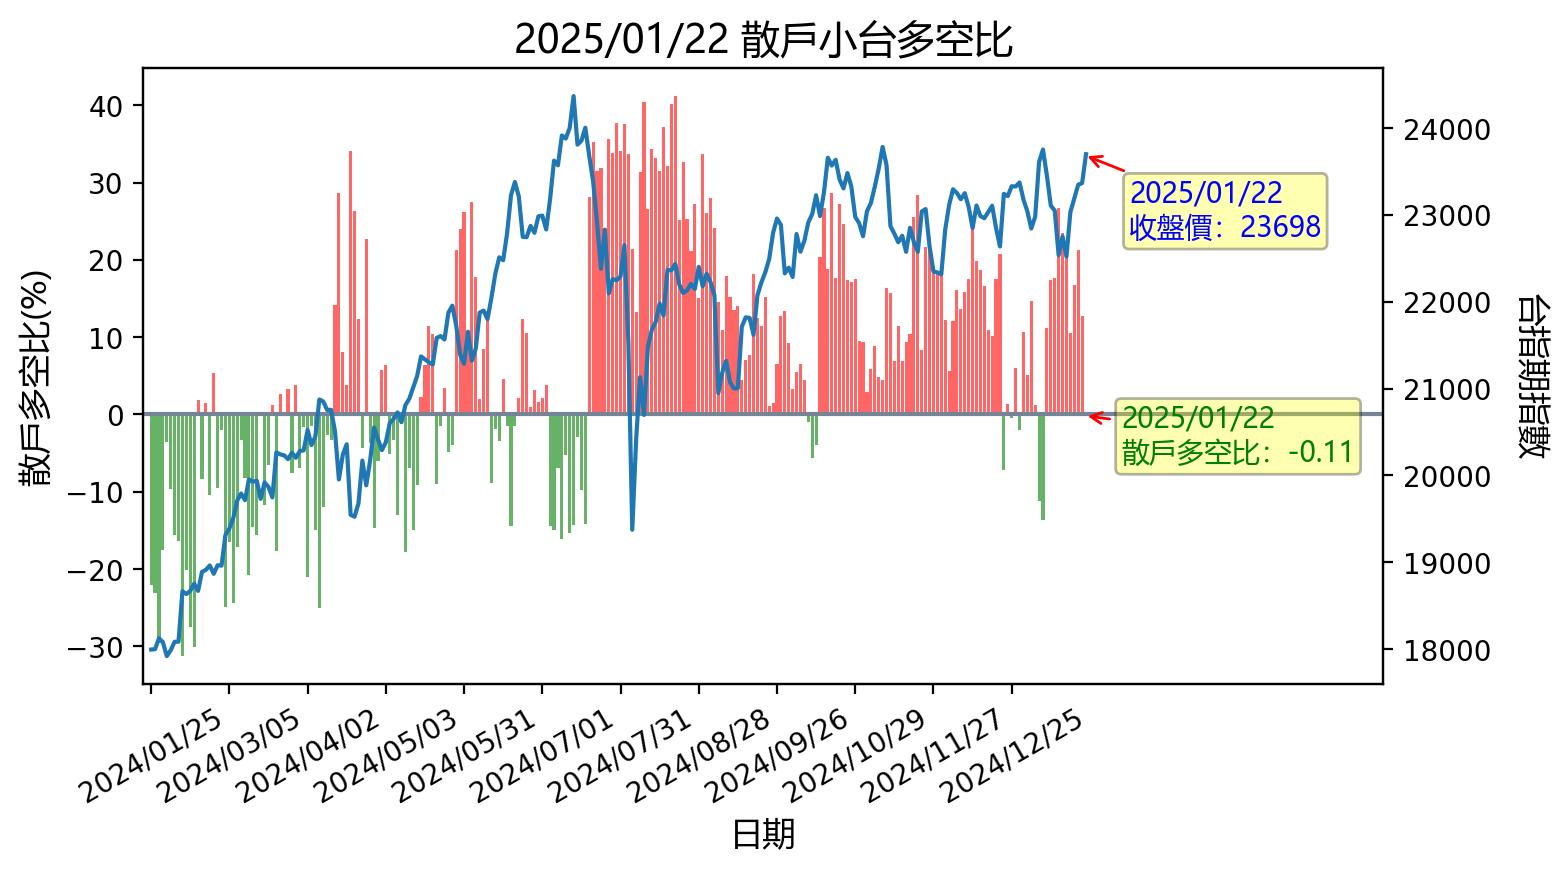
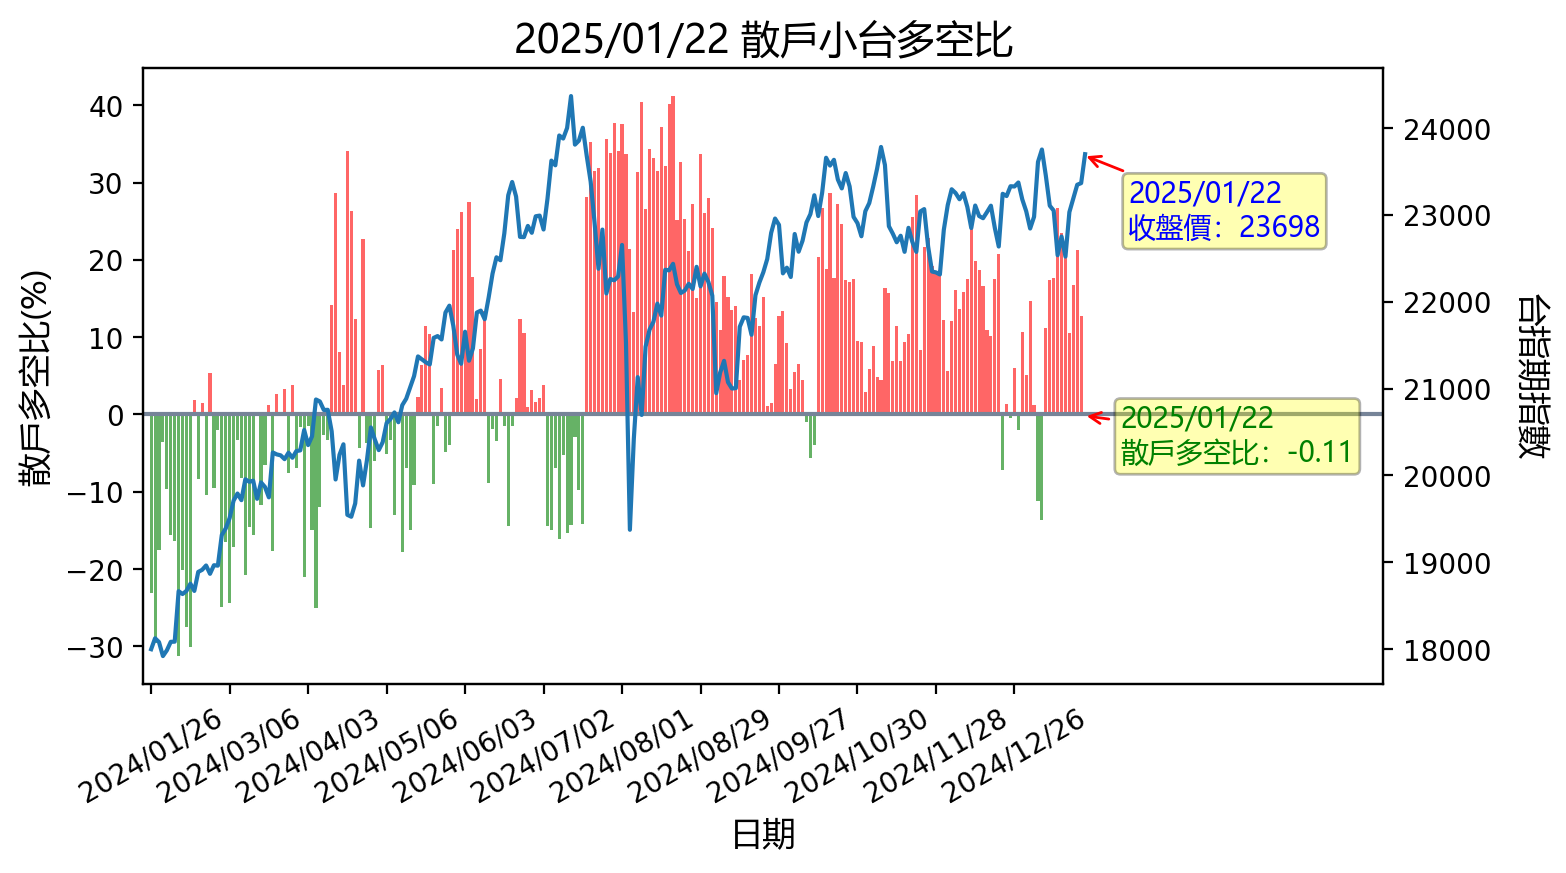
更新時間: Sun Jan 26 16:30:35 CST 2025

diff --git a/README.md b/README.md
@@ -1,12 +1,12 @@
-## 20250125 台指期「預估換倉成本」
+## 20250126 台指期「預估換倉成本」
 ![](images/txfcost.png)
 
-## 20250125 台指期「散戶小台多空比」
+## 20250126 台指期「散戶小台多空比」
 ![](images/bbiri.png)
 
-## 20250125 台指選擇權「Put/Call Ratios」
+## 20250126 台指選擇權「Put/Call Ratios」
 ![](images/pcratio.png)
 
-## 20250125 台指期「大額交易人」
+## 20250126 台指期「大額交易人」
 ![](images/blocktrade.png)
 
